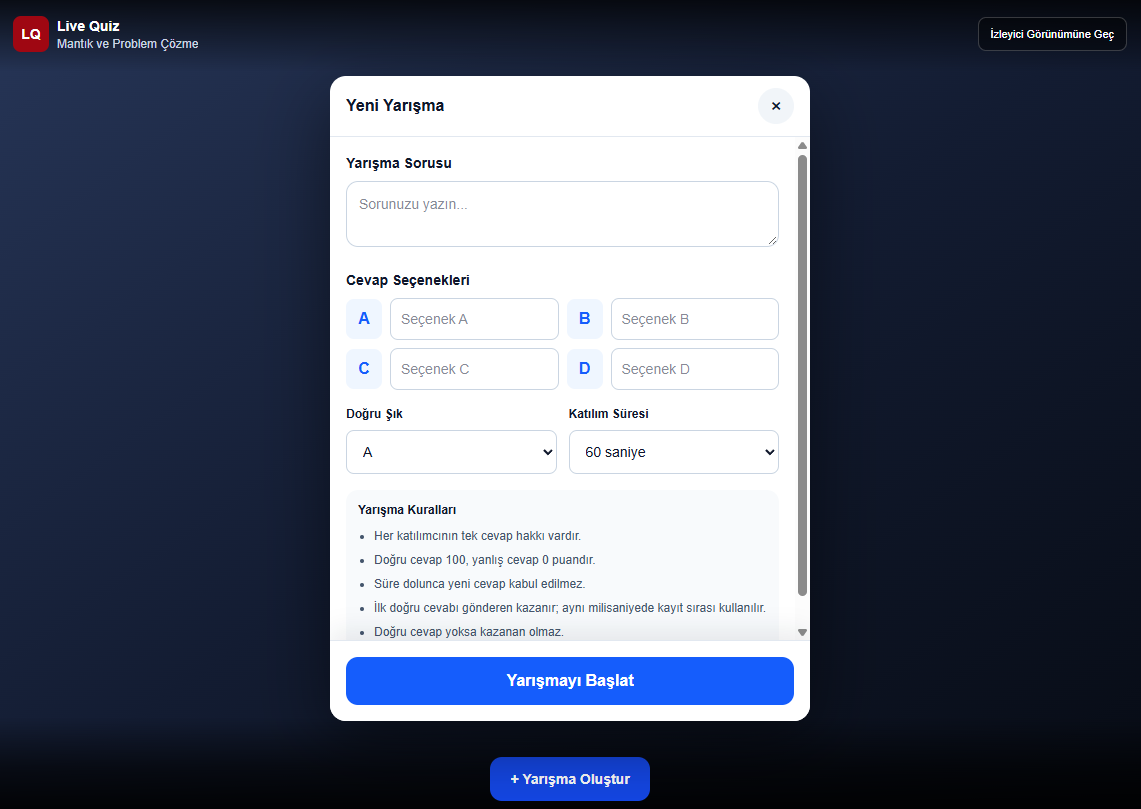
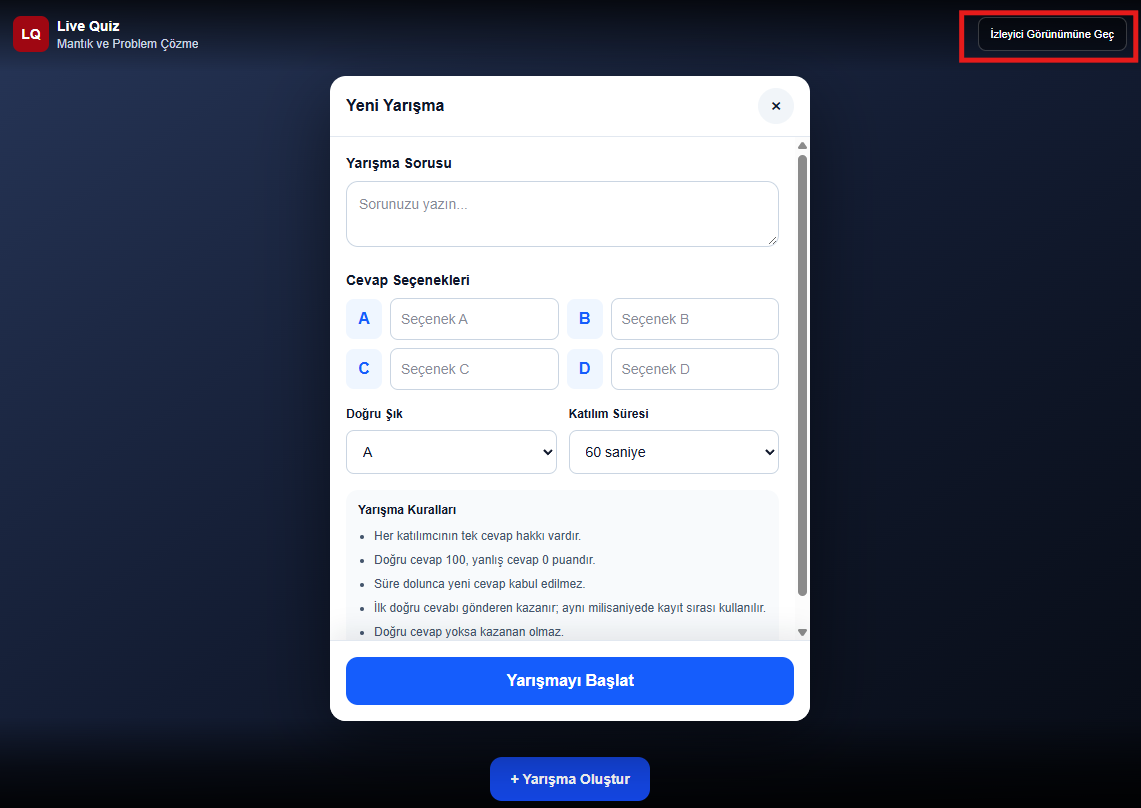
readme

diff --git a/README.md b/README.md
@@ -45,13 +45,20 @@
 
 ---
 
+
+> [!IMPORTANT]
+> 🎭 **Yayıncı ve İzleyici Modlarını Deneyin!**
+>
+> Canlı demoda sağ üst köşedeki butonu kullanarak **Yayıncı ↔ İzleyici** görünümleri arasında geçiş yapabilirsiniz. Her iki deneyimi de keşfetmek için modları değiştirmeyi unutmayın!
+
+
 <!-- EKRAN GÖRÜNTÜSÜ 1: Masaüstünde lacivert yayın alanı + sağda açık sohbet. -->
 ![ Yayıncı GÖrünümü Masaüstü Yayın](docs/screenshots/01-yayin-ve-sohbet.png)
 
 ## Özellikler
 
 - Tek soru, **A / B / C / D** seçenekleri ve tek doğru cevap.
-- Yayıncı tarafından seçilebilen **30, 60 veya 120 saniyelik** yarışma süresi.
+- Yayıncı tarafından seçilebilen **30, 60 veya 1a20 saniyelik** yarışma süresi.
 - **10 temsili katılımcı**; her katılımcı için yarışma başına yalnızca bir cevap hakkı.
 - Sunucu/veritabanı zamanına göre cevap kabulü; süre bitince yeni cevapların reddi.
 - Aynı yayın bağlamında **aynı anda yalnızca bir aktif yarışma** oluşturulabilmesi.
@@ -64,7 +71,7 @@
 
 ### 1. Yarışma oluşturma
 
-Yayıncı **Yarışma Oluştur** düğmesinden soruyu, dört seçeneği, doğru cevabı ve süreyi belirler. Yarışma başladıktan sonra ikinci bir yarışma oluşturulamaz; mevcut yarışma bittiğinde düğme yeniden kullanılabilir.
+Yayıncı **Yarışma Oluştur** düğmesinden soruyu, dört seçeneği, doğru cevabı ve süreyi belirler. Yarışma başladıktan sonra ikinci bir yarışma oluşturulamaz; mevcut yarışma bittiğinde düğme yeniden kullanılabilir. Sağ üstteki butondan izleiyici ve yayıncı görünümü değişimi yapılaiblir.
 
 <!-- EKRAN GÖRÜNTÜSÜ 2: Doldurulmuş yarışma oluşturma widget'ı, başlatma düğmesi de görünür. -->
 ![Yarışma oluşturma widget'ı](docs/screenshots/02-yarisma-olusturma.png)
